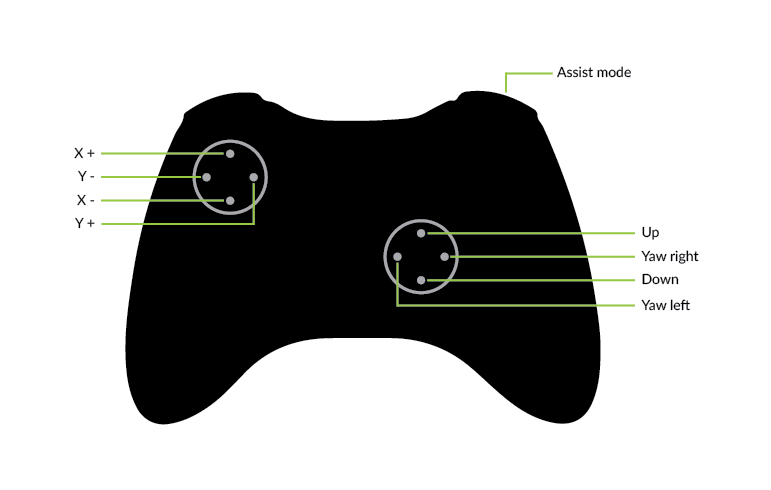
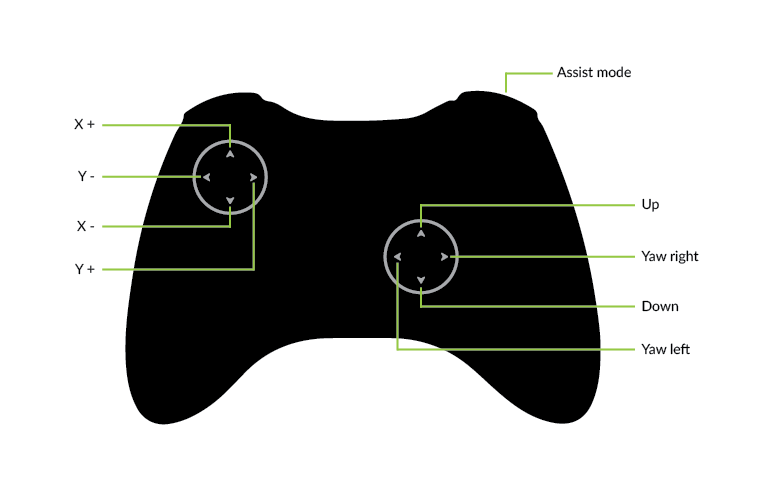
Added image for "flying with a gamepad"

diff --git a/src/tutorials/loco-positioning-system.md b/src/tutorials/loco-positioning-system.md
@@ -53,9 +53,9 @@ Go here to download the LPS node firmware
 Now it’s time set the mode for the node turning them into anchors and setting the individual addresses for each anchor. Remember to mark each node with their individual anchor number.
 {% img LPS configuration tool; medium; /images/tutorials/getting_started_with_lps/configure.png %}
 
-* Start by setting the individual IDs, number them sequentially from 0-5.
-* Choose "Anchor (TWR)"
-* Click Apply
+1. Start by setting the individual IDs, number them sequentially from 0-5.
+2. Choose "Anchor (TWR)"
+3. Click Apply
 
 {% endsi_step %}
 
@@ -164,6 +164,8 @@ Now when everything is mounted and powered it is time to configure the system.
 Press assisted button
 
  {% img Flying with a gamepad; wide; /images/tutorials/getting_started_with_lps/flying_with_a_gamepad.png %}
+
+{% tutorialVideo /videos/flying_with_position_hold.mp4 %}
 {% endsi_step %}
 
 {% si_intro Next step %}
